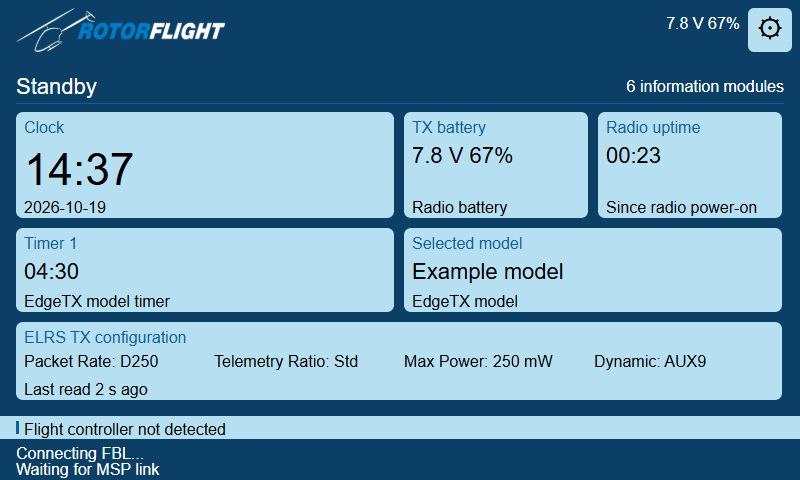
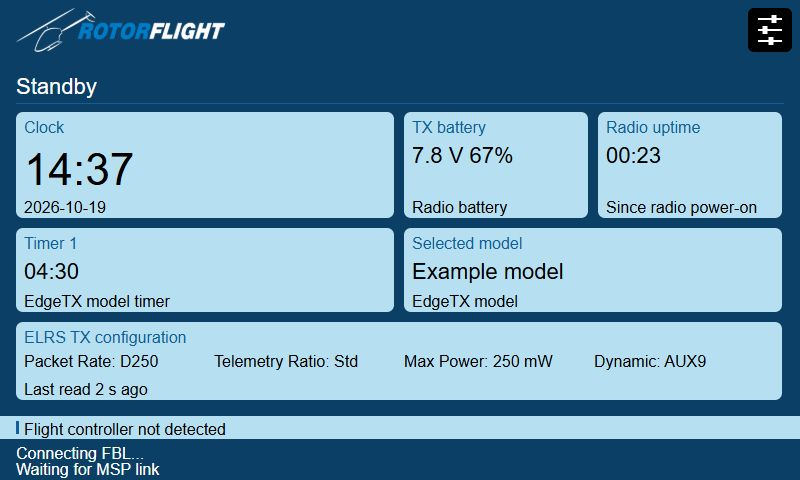
refactor(dashboard): simplify standby header

Changed region(s): [[0.8125, 0.0, 1.0, 0.125], [0.7812, 0.1562, 1.0, 0.2188]]

diff --git a/docs/dashboard/standby-screen.md b/docs/dashboard/standby-screen.md
@@ -5,7 +5,7 @@ sidebar_label: Standby screen
 
 # Standby screen
 
-When enabled, the fullscreen dashboard uses one configurable standby surface while it waits for the flight controller. The Rotorflight logo, current connection reason, and Suite tool entry remain available.
+When enabled, the fullscreen dashboard uses one configurable standby surface while it waits for the flight controller. The header keeps the Rotorflight logo, title, and standard Suite tool entry. Radio information appears only in selected tiles, while the current connection reason remains available below them.
 
 ![Layout preview with example data; approximate fonts](../images/dashboard/standby-screen.png)
 
